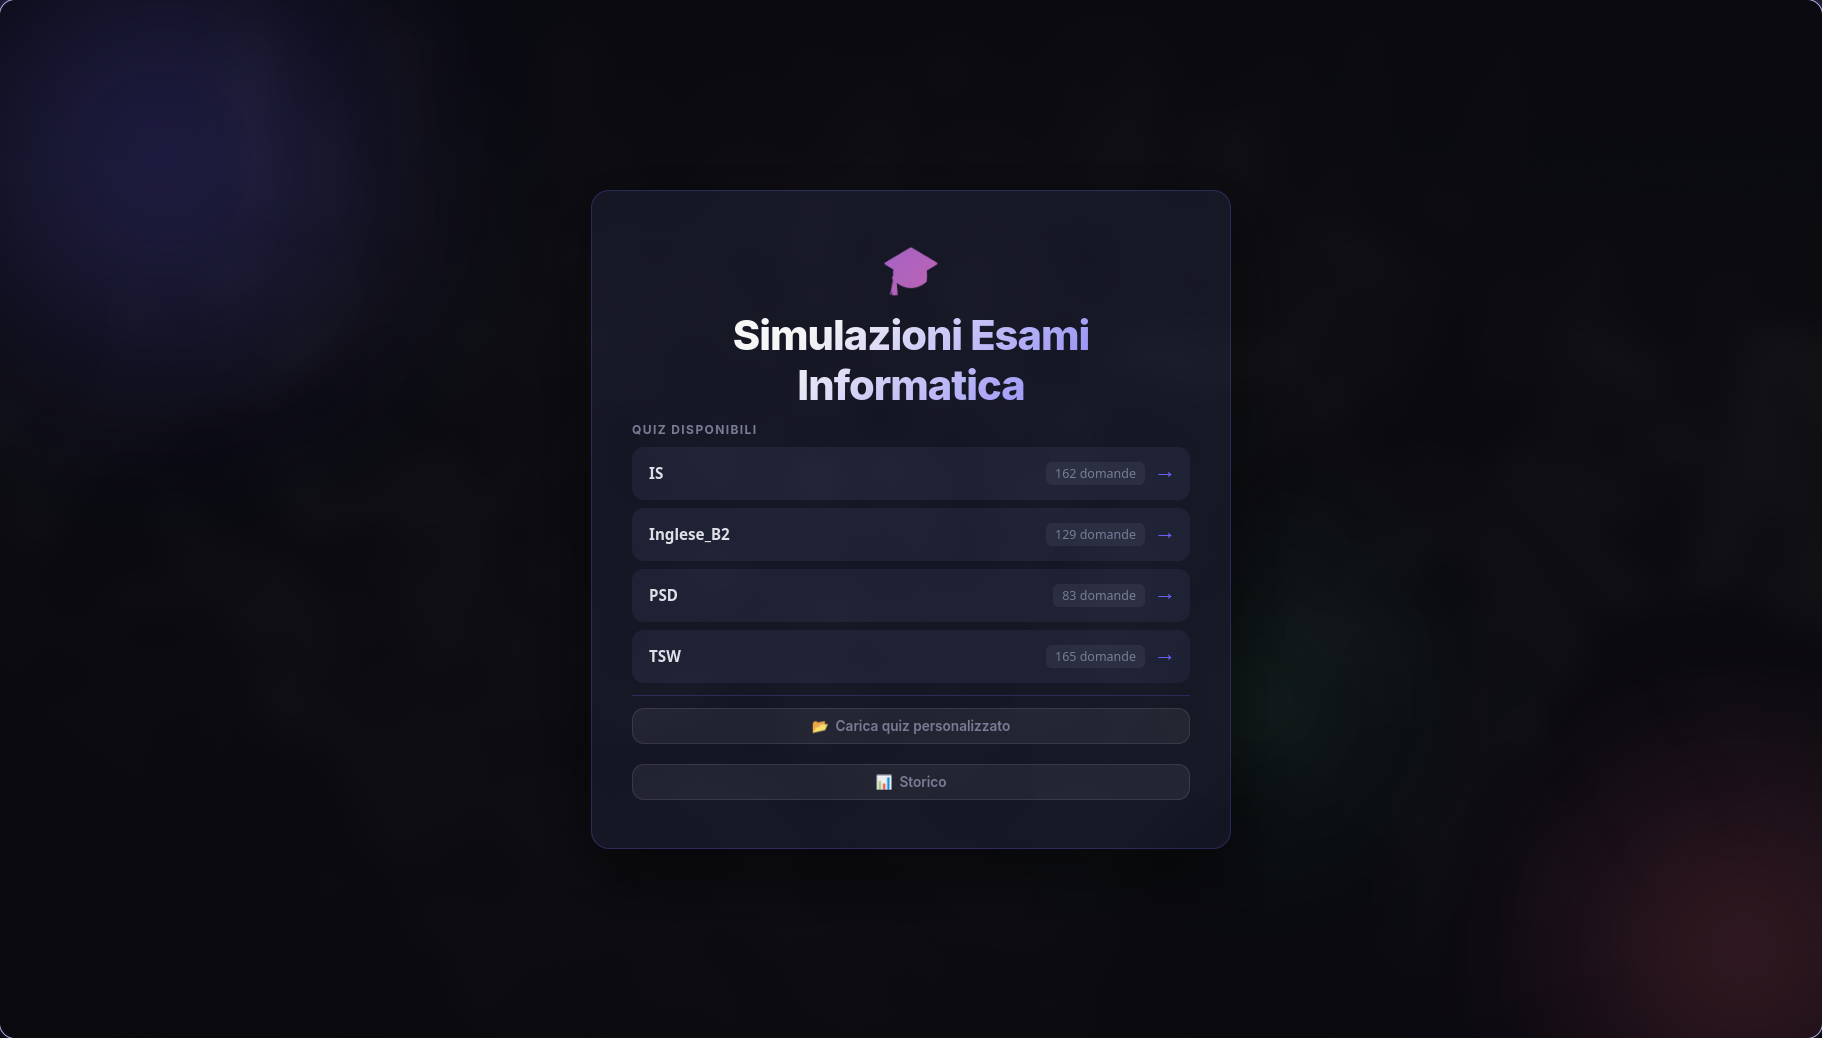
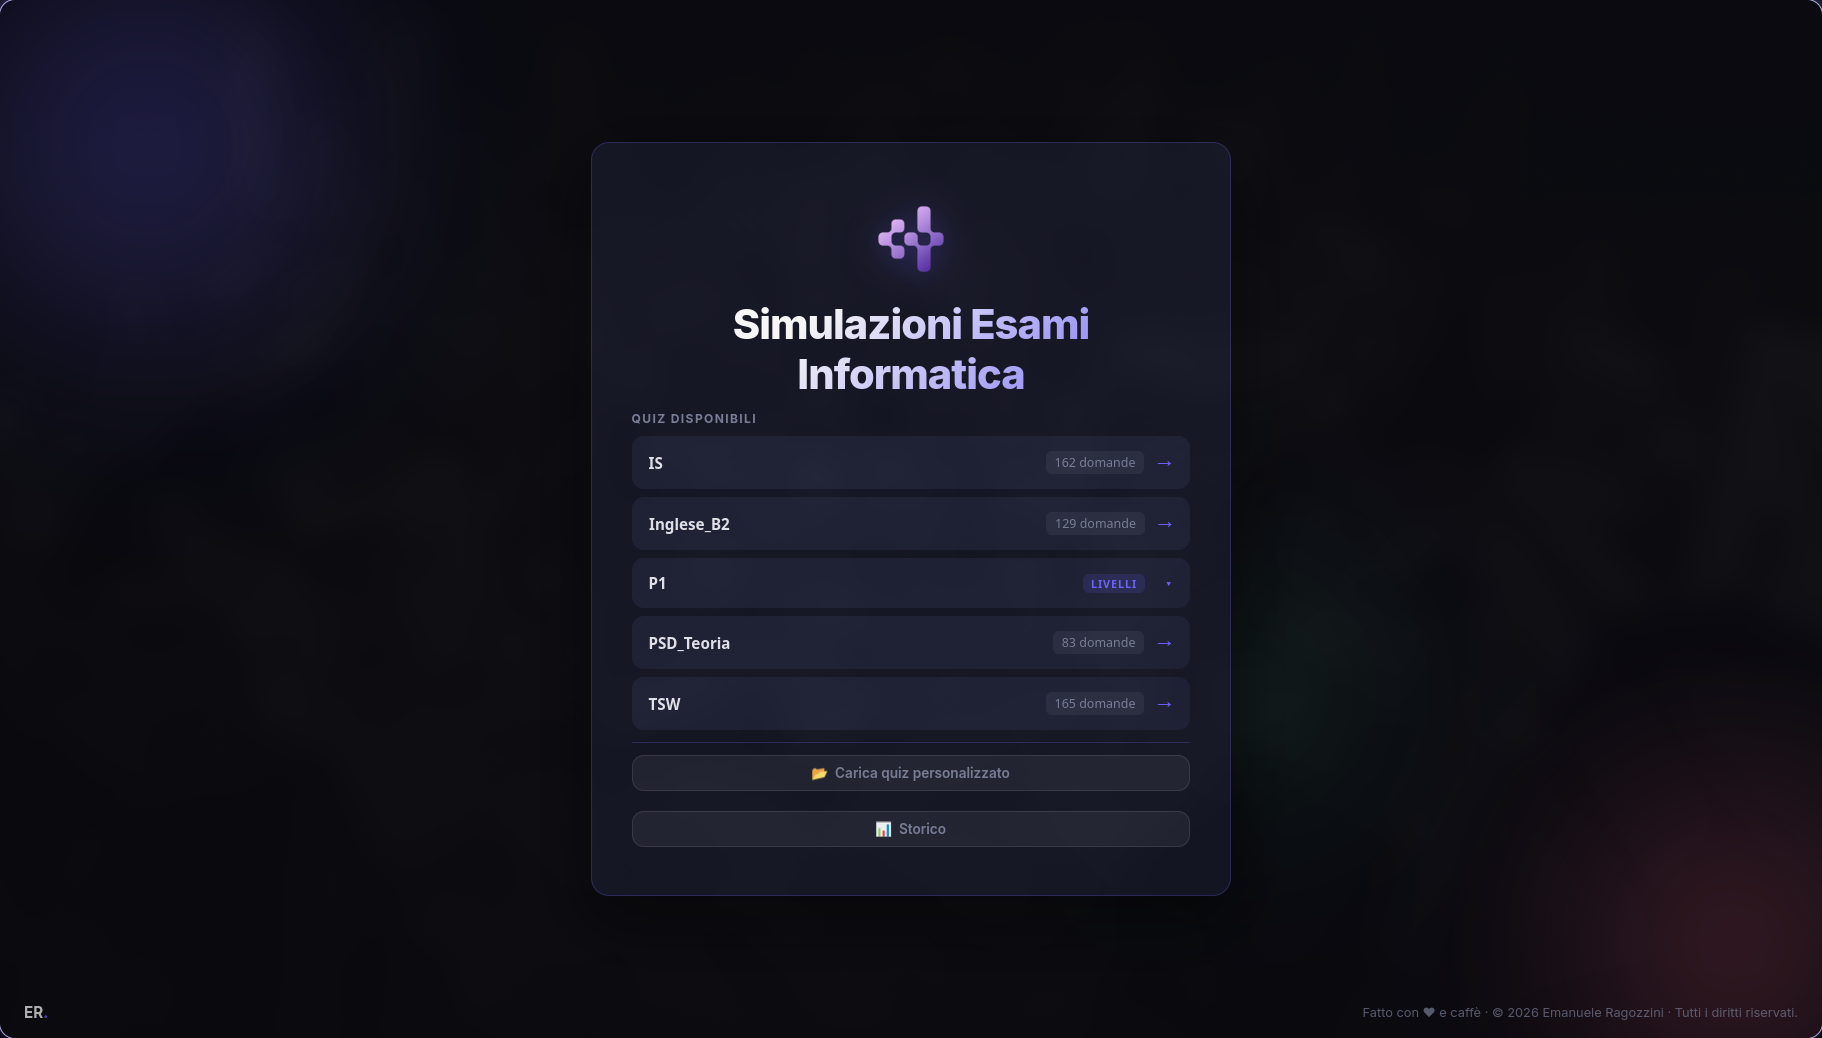
[Assets] Aggiornati gli assets e il readme

diff --git a/README.md b/README.md
@@ -1,9 +1,7 @@
-# 🎓 IUE — InformaticaUnisaExams
-
 <p align="center">
   <img src="assets/logoIUE.png" width="200" alt="Logo IUE"/>
 </p>
-
+<h1 style="text-align: center;">IUE — InformaticaUnisaExams</h1>
 App desktop per simulare gli esami di informatica dell'**Università degli Studi di Salerno (Unisa)**.  
 Progettata per studiare in modo attivo attraverso quiz a scelta multipla e quiz di programmazione interattivi, con feedback immediato e storico delle sessioni.
 
